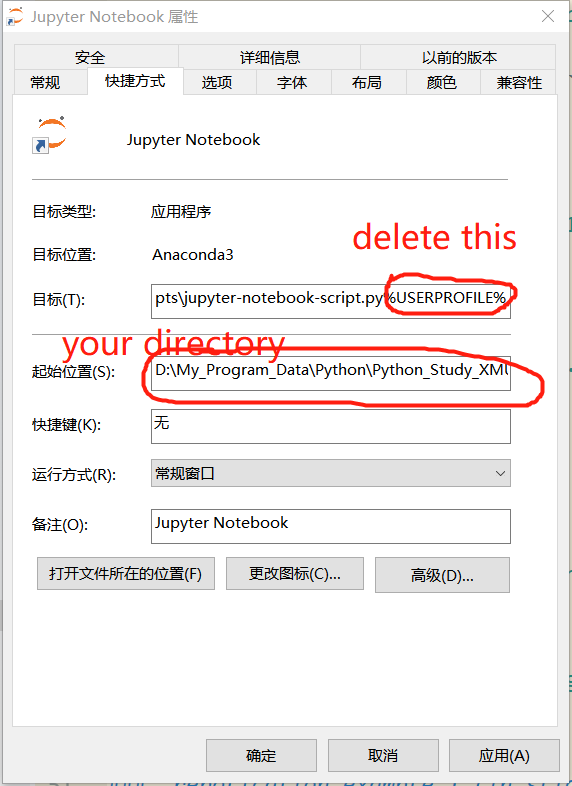
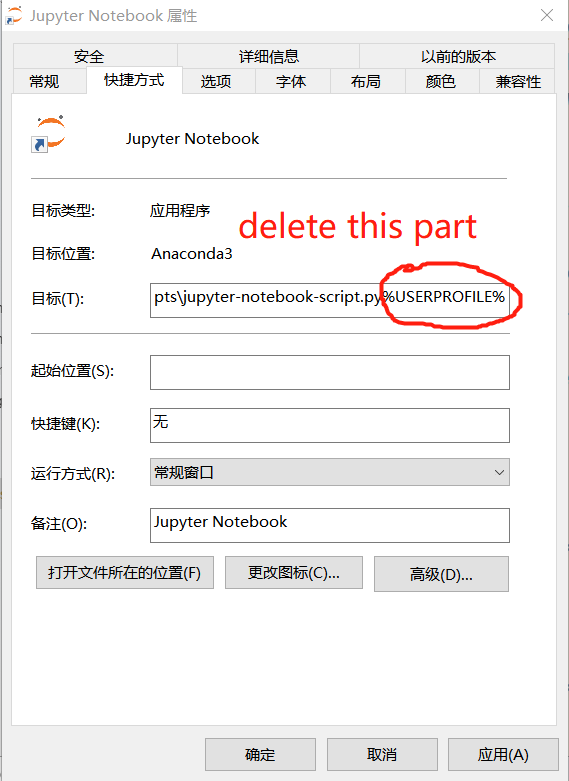
update

diff --git a/Session3/content of Session3.md b/Session3/content of Session3.md
@@ -48,7 +48,7 @@ Tips: you can get TA revision materials on the homepage
     ![change_after](Figures/change2.png)
 &ensp;
     and don't hesitate to click the ***save*** button.
-  - right click the `Jupyter Note ` program  and open the  properties dialog. click the ***shortcut*** label and delete the `%USERPROFILE%` in the ***target*** box. rewrite  the path in the  ***starting position*** box and hit the ***apply*** button.
+  - right click the `Jupyter Note ` program  and open the  properties dialog. below the ***shortcut*** label we delete the `%USERPROFILE%`  then hit the ***apply*** button.
 &ensp;
      ![property](Figures/property.png)
 
